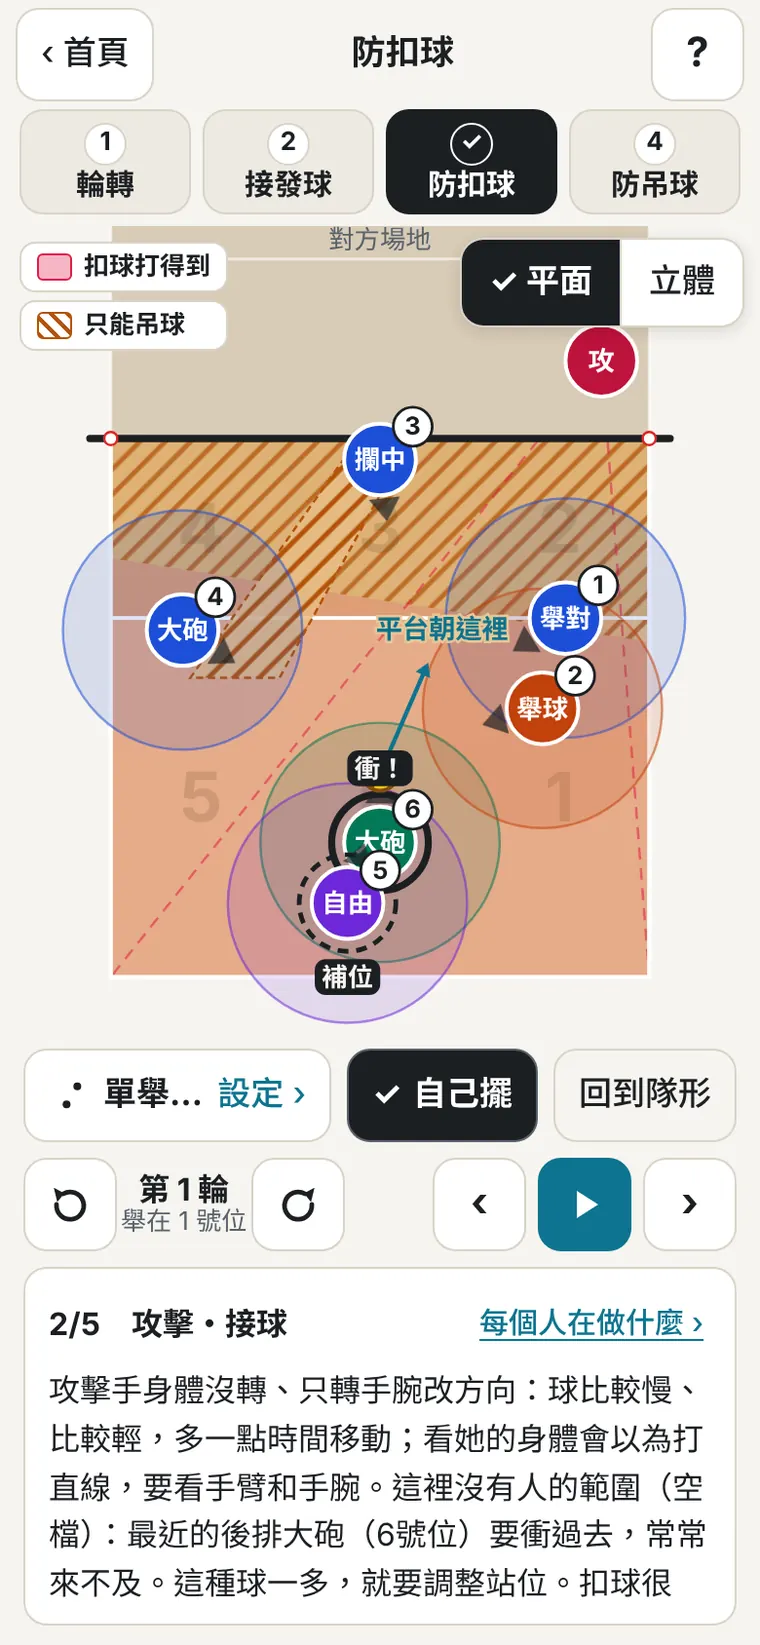
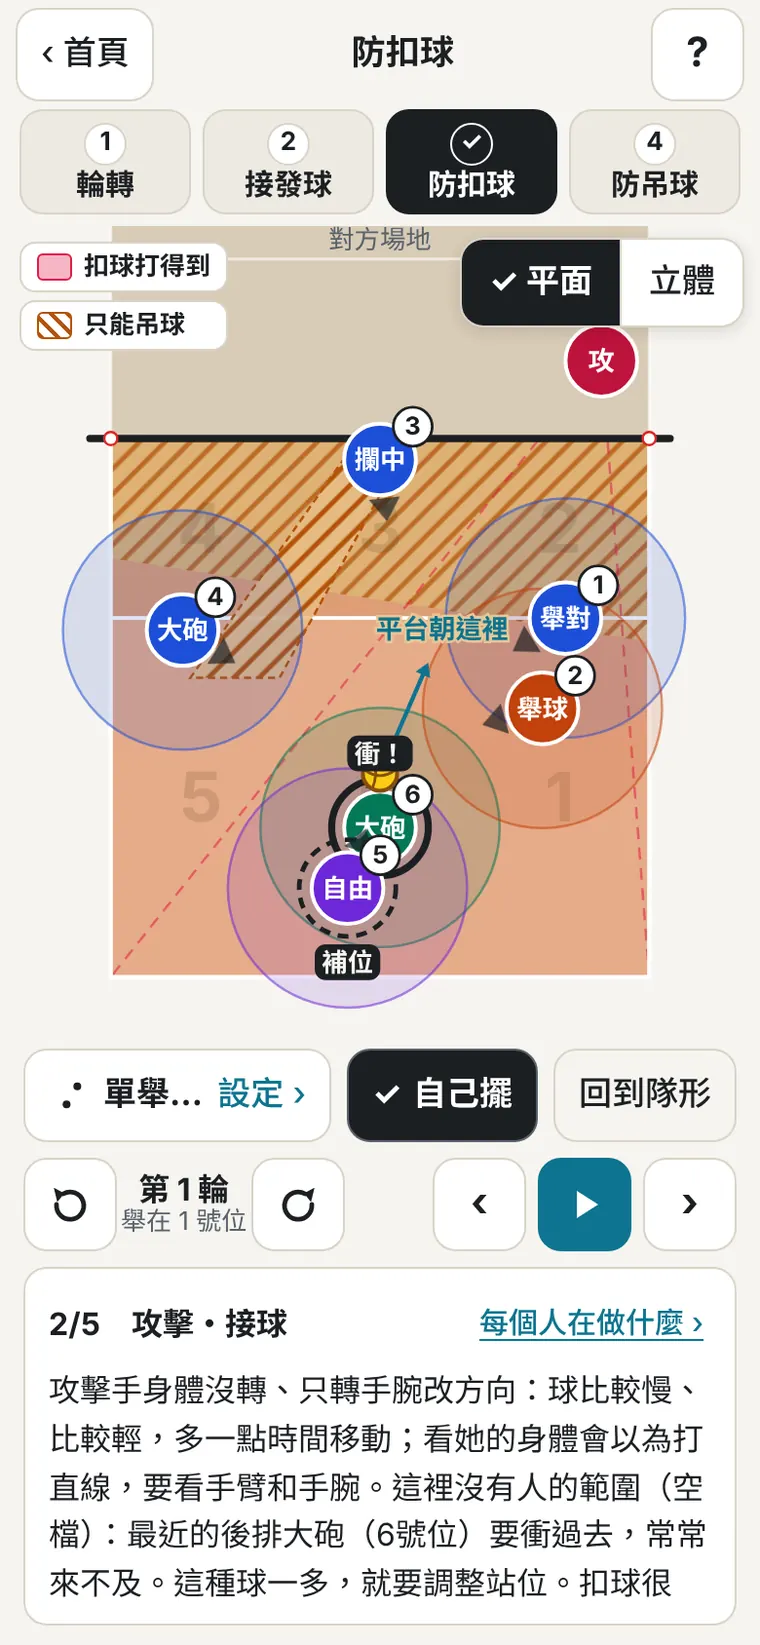
排球站位教室 v2.5.1：舉球的第一人稱看得到球、舉球手型修正、球不穿過人
- 舉球員第一人稱：球傳過來時抬頭看球，站起來、雙手舉到額頭前上方接球再舉出去
- 第一人稱只畫前臂和手，只有接球、舉球的人才伸手（不會有大柱子擋畫面）
- 舉球、攔網準備的手改用兩段手臂直接放到位置，手肘往外（之前手肘往奇怪方向彎）
- 碰手的小球先往上彈，越過攔網的人頭頂，不再穿過身體；舉球點改在額頭上方
- 跨步、撲救時手伸得到球
- 新增 tools/pose-test.html 檢查每個姿勢

Claude-Session: https://claude.ai/code/session_01Q8m2fzsawgKx5UKmuuzCmE

Changed region(s): [[0.3026, 0.403, 0.6658, 0.6201], [0.3026, 0.5581, 0.3329, 0.5891], [0.2724, 0.5271, 0.3026, 0.5581]]

diff --git a/js/app.js b/js/app.js
@@ -4,7 +4,7 @@
 (() => {
 'use strict';
 
-const APP_VERSION = '2.5.0';
+const APP_VERSION = '2.5.1';
 const BUILD_DATE = '2026-11-16';
 const VERSION_TEXT = `v${APP_VERSION}（${BUILD_DATE}）`;
 const COPY = '© 2026 Ken Chen';
@@ -516,7 +516,7 @@ function buildSteps(L, type, comp, dec, att){
   if (kind === 'front') P1[d] = clampCourt([L[0] + away[0]*.45, L[1] + away[1]*.45]);   // 站在球的後面一點，球在身體前面接
   else {
     // 跨步或撲：人停在球旁邊，手伸過去接（不是整個人跑到球後面）
-    const v = unit([L[0] - P0[d][0], L[1] - P0[d][1]]), reach = kind === 'lunge' ? .75 : 1.15;
+    const v = unit([L[0] - P0[d][0], L[1] - P0[d][1]]), reach = kind === 'lunge' ? .6 : .9;
     const dd = dist(P0[d], L);
     P1[d] = dd > reach ? clampCourt([L[0] - v[0] * reach, L[1] - v[1] * reach]) : P0[d].slice();
   }
@@ -569,7 +569,7 @@ function buildSteps(L, type, comp, dec, att){
   else faceMap[d] = L;
   if (soft) rules1.push('攔網碰到的球：設定裡可以改成「攔死」或「沒攔到」。');
   steps.push({ key:'dig', title: soft ? '碰手・接小球' : (type === 'tip' ? '吊球・接球' : '攻擊・接球'), pos:P1, faceMap,
-    ball: soft ? { from:hand, to:soft.bp, dur:330, arc:.08, z:[2.75, 2.5, 0], then:{ to:L, dur:950, arc:.55, z:[2.5, .55, 3.0] } }
+    ball: soft ? { from:hand, to:soft.bp, dur:330, arc:.08, z:[2.75, 2.5, 0], then:{ to:L, dur:1000, arc:.6, z:[2.5, .55, 3.7] } }
       : type === 'tip' ? { from:hand, to:L, dur:900, arc:.7, z:[2.6, .55, 3.1] } : (curHit === 'wrist' ? { from:hand, to:L, dur:650, arc:.16, z:[2.75, .7, 0], slow:true } : { from:hand, to:L, dur:480, arc:.1, z:[2.75, .65, 0], slow:true }),
     cap:cap1, rule:rules1.filter(Boolean).join(' '), marks:{ dig:d, digKind:kind, platform:[L, TG], backup, fillers, gap: dec.rule === 'gap' },
     notes:allNotes(r => r === d ? `接球：${tech}` : r === backup ? '補位：跟到接球的人後面，球接飛了可以救'
@@ -596,7 +596,7 @@ function buildSteps(L, type, comp, dec, att){
   } else cap2 = `${short(d)}把球接高，往舉球員會跑到的地方送（網前、2 號位偏中間）。不管在哪個位置接，都往這裡接。舉球員跑到球下面準備舉。`;
   cap2 += '前排攻擊手退到起跑點' + (comp.blockers.length ? '，攔網的人落地轉身退開' : '') + '。';
   const passDur = clamp(900 + Math.max(0, dist(P1[setterRole], TG) - 3) * 140, 900, 1400);
-  steps.push({ key:'pass', title: d === 'S' ? '修正：送給輔舉' : '送到舉球位置', pos:P2, moveDur:passDur - 100, ball:{ from:L, to:TG, dur:passDur, arc:1.1, z:[.65, 2.4, 4.6] }, cap:cap2, face:TG,
+  steps.push({ key:'pass', title: d === 'S' ? '修正：送給輔舉' : '送到舉球位置', pos:P2, moveDur:passDur - 100, ball:{ from:L, to:TG, dur:passDur, arc:1.1, z:[.65, 2.15, 4.6] }, cap:cap2, face:TG,
     rule: d === 'S' ? '依據：隊上的做法，舉球員接第一球時由舉對（輔舉）舉第二球；修正球離網稍微開一點（教練）。' : '依據：隊上的做法，防起來的球一律往舉球員跑到的終點接（教練）。',
     marks:{ set:setterRole, target: d === 'S' ? 'fix' : 'rt' },
     notes:allNotes(r => r === setterRole ? (d === 'S' ? '跑上來修正，準備舉第二球' : '跑到網前的舉球位置，準備舉球') : attackers.includes(r) ? '退到起跑點，準備助跑' : r === d ? '接完球往中間靠，準備保護' : '回到後排，準備保護') });
@@ -612,7 +612,7 @@ function buildSteps(L, type, comp, dec, att){
   assignSpots(close, sp.close, P2, P3); assignSpots(deep, sp.deep, P2, P3);
   const over = [H[0] < 4.5 ? H[0] + 2.6 : H[0] - 2.6, -2.8];
   const toSide = hitter === 'OH1' ? '4 號位' : (hitter === 'OPP' ? '2 號位' : '中間');
-  steps.push({ key:'set', title:'舉球・保護', pos:P3, face:H, ball:{ from:TG, to:H, dur:900, arc:1.0, z:[2.4, 2.95, 4.8], then:{ to:over, dur:300, arc:.1, z:[2.95, .05, 0] } },
+  steps.push({ key:'set', title:'舉球・保護', pos:P3, face:H, ball:{ from:TG, to:H, dur:900, arc:1.0, z:[2.15, 2.95, 4.8], then:{ to:over, dur:300, arc:.1, z:[2.95, .05, 0] } },
     cap:`${short(setterRole)}站在球下面，把球舉高到${toSide}給${short(hitter)}攻擊，舉完就近保護。離攻擊手最近的三個人（${close.map(short).join('、')}）蹲低靠近保護，${deep.length ? `${deep.map(short).join('、')}站後面一點` : '其他人站後面一點'}：球被攔回來才接得到。`,
     rule:'依據：離攻擊手最近的人近距離保護，最遠的人守後面（教練慣例）。',
     marks:{ hit:hitter, set:setterRole, target: d === 'S' ? 'fix' : 'rt' }, hitter,
@@ -765,7 +765,7 @@ function buildRecvSteps(L, rc, dec){
   for (const r of attackers) P2[r] = APPROACH[spot[r]].slice();
   for (const r of ROLES) if (!lu[r].front && r !== 'S' && r !== d) P2[r] = (READY[lu[r].zone] || P2[r]).slice();
   if (!lu[d].front && d !== 'S') P2[d] = lerp(P1[d], READY[lu[d].zone] || P1[d], .5);
-  steps.push({ key:'pass', title:'傳到舉球員', pos:P2, ball:{ from:L, to:rt(), dur:950, arc:1.0, z:[.7, 2.4, 4.4] }, marks:{ set:'S', target:'rt' }, face:rt(), off:[],
+  steps.push({ key:'pass', title:'傳到舉球員', pos:P2, ball:{ from:L, to:rt(), dur:950, arc:1.0, z:[.7, 2.15, 4.4] }, marks:{ set:'S', target:'rt' }, face:rt(), off:[],
     cap:`${short(d)}用雙手前臂把球傳到網前、中間偏右的目標區（離網 1 公尺左右），舉球員在那裡舉。不用傳得很貼網：離網一點，比較不會直接過網。前排攻擊手接完球，馬上退到起跑點。`,
     rule:'依據：很多教練把傳球目標放在離網 1～1.5 公尺、中間偏右（Gold Medal Squared）。',
     notes:allNotes(r => r === 'S' ? '在目標區等球，準備舉' : attackers.includes(r) ? '退到起跑點，準備助跑' : r === d ? '接完球往前靠，準備保護' : '準備保護攻擊手') });
@@ -783,7 +783,7 @@ function buildRecvSteps(L, rc, dec){
   const over = [H[0] < 4.5 ? H[0] + 2.6 : H[0] - 2.6, -2.8];
   const toSide = spot[hitter] === 'OPP' ? '2 號位' : (spot[hitter] === 'MB' ? '中間' : '4 號位');
   steps.push({ key:'set', title:'舉球・保護', pos:P3, face:H, off:[], hitter,
-    ball:{ from:rt(), to:H, dur:950, arc:1.0, z:[2.4, 2.95, 4.8], then:{ to:over, dur:320, arc:.1, z:[2.95, .05, 0] } },
+    ball:{ from:rt(), to:H, dur:950, arc:1.0, z:[2.15, 2.95, 4.8], then:{ to:over, dur:320, arc:.1, z:[2.95, .05, 0] } },
     cap:`舉球員站在球下面，把球舉高到${toSide}給${short(hitter)}攻擊，舉完就近保護。離攻擊手最近的三個人（${close.map(short).join('、')}）蹲低靠近保護，其他人站後面一點。` +
       (rc.swap ? `第一波打完，${short(rc.swap[0])}和${short(rc.swap[1])}再交換位置。` : ''),
     rule:'依據：離攻擊手最近的人近距離保護，最遠的人守後面（教練慣例）。', marks:{ hit:hitter, set:'S', target:'rt' },
@@ -1614,18 +1614,21 @@ function camRoleNow(){
 function camera3(now, role, dt, st){
   if (!role){ v3.cam = null; return S.step === 'rot' ? { eye:[4.5, 17.2, 5.6], target:[4.5, 3.2, .3], fov:50 } : { eye:[4.5, 15.2, 4.4], target:[4.5, .6, .8], fov:52 }; }
   const p = posNow(role, now) || play.comp.pos[role];
-  const eye = [p[0], p[1], 1.3 + jumpZ('us:' + role, now)];   // 蹲低準備，眼睛大概 1.3 公尺高
-  const key = st ? st.key : 'idle';
+  const key = st ? st.key : 'idle', mk = (st && st.marks) || {};
+  const setting = (mk.set === role && (key === 'pass' || key === 'set'));
+  // 蹲低準備時眼睛大概 1.3 公尺高；舉球時站起來，眼睛 1.55 公尺
+  const eye = [p[0], p[1], (setting ? 1.55 : 1.3) + jumpZ('us:' + role, now)];
   let tg;
   if (!st || key === 'read' || key === 'stand') tg = S.step === 'recv' ? [S.serveX, SERVER_Y, 2.4] : [S.attacker.x, S.attacker.y, 2.6];
   else if (ball3.show) tg = [ball3.x, ball3.y, ball3.z];
   else tg = [4.5, -4, 1.4];
   const dx = tg[0] - eye[0], dy = tg[1] - eye[1], dz = tg[2] - eye[2], hd = Math.hypot(dx, dy);
-  let yaw = Math.atan2(dx, -dy), pitch = clamp(Math.atan2(dz, Math.max(hd, .4)), -.72, .7);
+  // 舉球時球會到頭上：可以抬頭看到快 75 度
+  let yaw = Math.atan2(dx, -dy), pitch = clamp(Math.atan2(dz, Math.max(hd, setting ? .25 : .4)), -.72, setting ? 1.3 : .7);
   if (hd < .7 && v3.cam) yaw = v3.cam.yaw;
   if (!v3.cam) v3.cam = { yaw, pitch };
   let d = yaw - v3.cam.yaw; while (d > Math.PI) d -= 2 * Math.PI; while (d < -Math.PI) d += 2 * Math.PI;
-  const kf = 1 - Math.exp(-dt * 3), mx = 1.4 * dt;
+  const kf = 1 - Math.exp(-dt * (setting ? 5 : 3)), mx = (setting ? 2.4 : 1.4) * dt;
   v3.cam.yaw += clamp(d * kf, -mx, mx);
   v3.cam.pitch += clamp((pitch - v3.cam.pitch) * kf, -mx, mx);
   const cy = v3.cam.yaw, cp = v3.cam.pitch;
@@ -1721,11 +1724,15 @@ function frame3(now){
   for (const o of oppPeople(now, st)) people.push(o);
   const mk = st && st.marks && st.marks.target;
   const ball = ball3.show ? { x:ball3.x, y:ball3.y, z:ball3.z, spin:now / 150 } : null;
-  const near = role && ball && Math.hypot(ball.x - (posNow(role, now) || comp.pos[role])[0], ball.y - (posNow(role, now) || comp.pos[role])[1]) < 1.6 && ball.z < 2;
+  const mk2 = (st && st.marks) || {}, rp = role ? (posNow(role, now) || comp.pos[role]) : null;
+  const bd = role && ball ? Math.hypot(ball.x - rp[0], ball.y - rp[1]) : 99;
+  // 只有這一球接球的人才伸手接；舉球的人在球快到時雙手舉到額頭
+  const setNow = role && ball && mk2.set === role && (st.key === 'pass' || (st.key === 'set' && now - play.t0 < 260 * speedK())) && bd < 2.2 && ball.z > 1.3;
+  const near = role && ball && mk2.dig === role && bd < 1.6 && ball.z < 2;
   const scene = { camera:camera3(now, role, dt, st), people: v3.gl ? people : people.filter(p => !p.hidden), ball,
     dark:darkMQ.matches, zones:zones3(), target: mk ? (mk === 'fix' ? FIX_T : rt()) : null,
     hud:(role ? `第一人稱：${ROLE_INFO[role].name}的眼睛` : '看台視角') + '・慢動作',
-    arms: role ? { on:true, pose: near ? 'platform' : 'ready', at: near ? [ball.x, ball.y, ball.z] : null, color:v3.colors[groupOf(role, lu)] } : null };
+    arms: role && (near || setNow) ? { on:true, pose: setNow ? 'set' : (near ? 'platform' : 'ready'), at: (near || (setNow && bd < 1.2)) ? [ball.x, ball.y, ball.z] : null, color:v3.colors[groupOf(role, lu)] } : null };
   v3.r.render(scene);
 }
 function makeRenderer(){

diff --git a/js/gl3d.js b/js/gl3d.js
@@ -113,9 +113,9 @@ const POSES = {
   ready:     { lean:26, hip:[40,40], knee:[64,64], sh:[36,36],   abd:[12,12],  el:[30,30],  wide:.36, stag:.12 },
   defense:   { lean:34, hip:[52,52], knee:[84,84], sh:[52,52],   abd:[26,26],  el:[34,34],  wide:.42, stag:.08 },
   dig:       { lean:30, hip:[50,50], knee:[80,80], sh:[64,64],   abd:[-19,-19], el:[0,0],   wide:.40, stag:.14 },
-  set:       { lean:4,  hip:[16,16], knee:[26,26], sh:[150,150], abd:[16,16],  el:[96,96],  wide:.28, stag:.12 },
+  set:       { lean:2,  hip:[14,14], knee:[24,24], sh:[150,150], abd:[30,30],  el:[30,30],  wide:.30, stag:.14, ik:'set' },
   block:     { lean:0,  hip:[10,10], knee:[22,22], sh:[172,172], abd:[6,6],    el:[4,4],    wide:.24, stag:0 },
-  blockReady:{ lean:4,  hip:[16,16], knee:[30,30], sh:[118,118], abd:[18,18],  el:[72,72],  wide:.30, stag:0 },
+  blockReady:{ lean:4,  hip:[16,16], knee:[30,30], sh:[110,110], abd:[22,22],  el:[30,30],  wide:.30, stag:0, ik:'blockReady' },
   spike:     { lean:-6, hip:[16,30], knee:[30,52], sh:[150,168], abd:[20,26],  el:[40,-105], wide:.22, stag:0 },
   serve:     { lean:6,  hip:[8,8],   knee:[14,14], sh:[160,120], abd:[16,30],  el:[10,-95], wide:.28, stag:-.22 },
   // 跨步壓低接球：右腳跨出去、膝蓋接近地板，雙手平台伸向球（左腳在前時整個左右對調）
@@ -126,6 +126,20 @@ const POSES = {
   shuffle:   { lean:28, hip:[46,46], knee:[74,74], sh:[42,42],   abd:[14,14],  el:[30,30],  wide:.52, stag:.06 },
 };
 // 跑步：放開手擺臂（不抱著手跑）；amp 是快慢，慢跑擺幅小
+// 兩段手臂（上臂 .29、前臂 .27）：肩膀到目標，手肘往外、往下彎
+function armIK(S0, T, sd){
+  const a = .29, c = .27;
+  let v = [T[0] - S0[0], T[1] - S0[1], T[2] - S0[2]];
+  let d = Math.hypot(v[0], v[1], v[2]) || 1e-3;
+  const u = [v[0] / d, v[1] / d, v[2] / d];
+  d = Math.min(a + c - .002, Math.max(Math.abs(a - c) + .02, d));
+  let p = [sd, 0, -.5]; const pr = p[0] * u[0] + p[1] * u[1] + p[2] * u[2];
+  p = [p[0] - u[0] * pr, p[1] - u[1] * pr, p[2] - u[2] * pr];
+  const pl = Math.hypot(p[0], p[1], p[2]) || 1; p = [p[0] / pl, p[1] / pl, p[2] / pl];
+  const ca = (a * a + d * d - c * c) / (2 * a * d), sa = Math.sqrt(Math.max(0, 1 - ca * ca));
+  const elb = [S0[0] + u[0] * a * ca + p[0] * a * sa, S0[1] + u[1] * a * ca + p[1] * a * sa, S0[2] + u[2] * a * ca + p[2] * a * sa];
+  return [elb, [S0[0] + u[0] * d, S0[1] + u[1] * d, S0[2] + u[2] * d]];
+}
 function runPose(ph, amp){
   const a = amp == null ? 1 : amp, s = Math.sin(ph) * a, c = Math.cos(ph);
   return { lean:10 + 10 * a, hip:[32 * s + 10, -32 * s + 10], knee:[30 + 40 * a * Math.max(0, -c), 30 + 40 * a * Math.max(0, c)],
@@ -259,6 +273,9 @@ function create(canvas, overlay){
     const fast = ['dig','lunge','dive','block','spike'].includes(p.pose) ? 12 : (p.pose === 'run' || p.pose === 'shuffle' ? 16 : 6);
     const a = 1 - Math.exp(-dt * fast);
     easePose(s.pose, tgt, a);
+    // 舉球、攔網準備：手直接放到額頭前上方／肩膀前上方（用兩段手臂去接，手肘自然往外），慢慢切換
+    if (tgt.ik) s.ikKind = tgt.ik;
+    s.ikW = (s.ikW || 0) + ((tgt.ik ? 1 : 0) - (s.ikW || 0)) * a;
     let dy = (p.yaw || 0) - s.yaw; while (dy > Math.PI) dy -= 2 * Math.PI; while (dy < -Math.PI) dy += 2 * Math.PI;
     s.yaw += dy * (1 - Math.exp(-dt * 6));
     return s;
@@ -313,34 +330,54 @@ function create(canvas, overlay){
       const up = [sd * Math.sin(ab), Math.sin(th) * Math.cos(ab), -Math.cos(th) * Math.cos(ab)];
       let b = [0, 1, .6]; const pr = dot(b, up); b = norm(sub(b, mul(up, pr)));
       const fore = norm(add(mul(up, Math.cos(el)), mul(b, Math.sin(el))));
-      const elb = add(shl, mul(up, .29)), wr = add(elb, mul(fore, .27));
+      let elb = add(shl, mul(up, .29)), wr = add(elb, mul(fore, .27));
+      if (s.ikW > .01 && s.ikKind){
+        const head = add(add(add(pel, mul(spine, .58)), [0, .02, .1]), [0, 0, 0]);
+        const T = s.ikKind === 'set' ? add(head, [sd * .1, .2, .2]) : add(shl, [sd * .05, .16, .32]);
+        const ik = armIK(shl, T, sd);
+        elb = add(elb, mul(sub(ik[0], elb), s.ikW)); wr = add(wr, mul(sub(ik[1], wr), s.ikW));
+      }
       const S0 = pt(shl), E0 = pt(elb), W0 = pt(wr);
       sphere(S0, .062, col);
       limb(S0, add(S0, mul(sub(E0, S0), .45)), .058, col);
       limb(S0, E0, .042, SKIN);
       sphere(E0, .041, SKIN);
       limb(E0, W0, .036, SKIN);
-      sphere(add(W0, mul(fore, .04)), .044, SKIN);
+      sphere(add(W0, mul(norm(sub(W0, E0)), .04)), .044, SKIN);
     }
     return add(headC, [0, 0, .2]);
   }
   // 第一人稱：自己的兩隻手（雙手前臂合起來，球接進手裡）
+  // 第一人稱的手：只畫前臂和手（上臂、肩膀太靠近眼睛，畫出來會變成擋住畫面的大柱子）
   function drawArms(a){
-    const e = cam.eye, f = cam.f, r = cam.r, u = cam.u;
-    let hand = add(add(e, mul(f, .62)), mul(u, -.4));
-    if (a.at){
-      // 球快到的時候，雙手迎到球的下面
-      const d = sub(a.at, e), L = Math.hypot(d[0], d[1], d[2]) || 1, kk = Math.max(.45, Math.min(.85, L)) / L;
-      hand = add(add(e, mul(d, kk)), mul(u, -.1));
+    const e = cam.eye, r = cam.r, Zu = [0, 0, 1];
+    const fh = norm([cam.f[0], cam.f[1], 0]);              // 水平的前方
+    const fore = (elb, h) => { limb(elb, h, .032, SKIN); };
+    if (a.pose === 'set'){
+      // 舉球：雙手在額頭前上方張開成三角形，手肘往外、往下；球來了手迎到球下面
+      let c = add(add(e, mul(Zu, .3)), mul(fh, .26));
+      if (a.at){ const b = a.at; c = [b[0] - fh[0] * .04, b[1] - fh[1] * .04, b[2] - .12]; }
+      for (const sd of [-1, 1]){
+        const h = add(c, mul(r, sd * .085));
+        const elb = add(add(add(h, mul(Zu, -.26)), mul(r, sd * .17)), mul(fh, -.06));
+        fore(elb, h);
+        ellip(h, mul(r, .035), mul(fh, .03), mul(Zu, .055), SKIN);
+      }
+      return;
     }
+    let hand = add(add(e, mul(fh, .6)), mul(Zu, -.6));
+    if (a.at){
+      // 接球：雙手併攏成平台，迎到球的下面
+      const d = sub(a.at, e), L = Math.hypot(d[0], d[1], d[2]) || 1, kk = Math.max(.5, Math.min(.85, L)) / L;
+      hand = add(add(e, mul(d, kk)), mul(Zu, -.08));
+    }
+    // 前臂從手往身體方向（往後、往下、稍微往外）
+    const toBody = norm(sub(add(e, mul(Zu, -.45)), hand));
     for (const sd of [-1, 1]){
-      const sh0 = add(add(add(e, mul(r, sd * .3)), mul(u, -.72)), mul(f, .06));
-      const h = add(hand, mul(r, sd * .03));
-      const elb = add(add(add(sh0, mul(sub(h, sh0), .52)), mul(r, sd * .04)), mul(u, .02));
-      limb(sh0, add(sh0, mul(sub(elb, sh0), .55)), .052, hex(a.color || '#6d28d9'));
-      limb(sh0, elb, .036, SKIN);
-      limb(elb, h, .03, SKIN);
-      ellip(h, mul(r, .03), mul(f, .05), mul(u, .022), SKIN);
+      const h = add(hand, mul(r, sd * .035));
+      const elb = add(add(h, mul(toBody, .27)), mul(r, sd * .07));
+      fore(elb, h);
+      ellip(h, mul(r, .03), mul(fh, .05), mul(Zu, .022), SKIN);
     }
   }
   /* ---------- 畫一張 ---------- */

diff --git a/tools/pose-test.html b/tools/pose-test.html
@@ -1,0 +1,16 @@
+<!DOCTYPE html>
+<html lang="zh-Hant"><head><meta charset="utf-8"><title>姿勢檢查</title>
+<style>body{margin:0;background:#ccc} canvas{display:block}</style></head>
+<body><canvas id="c" width="1200" height="520" style="width:1200px;height:520px"></canvas><canvas id="o" width="1200" height="520" style="position:absolute;left:0;top:0;width:1200px;height:520px"></canvas>
+<script src="../js/gl3d.js"></script>
+<script>
+// 開發用：把每個姿勢排一排，從側面看，檢查手肘、膝蓋有沒有往奇怪的方向彎
+const poses = (new URLSearchParams(location.search).get('p') || 'ready,defense,dig,lunge,dive,shuffle,set,blockReady,block,spike').split(',');
+const yawDeg = +(new URLSearchParams(location.search).get('yaw') || 90);
+const r = VBGL.create(document.getElementById('c'), document.getElementById('o'));
+r.resize();
+const people = poses.map((p, i) => ({ id:'p' + i, x:i * 1.3, y:0, z:0, h:1.7, yaw:yawDeg * Math.PI / 180, pose:p, phase:1, color:'#2563eb', label:p, foot:1 }));
+const cx = (poses.length - 1) * 1.3 / 2;
+function frame(){ r.render({ camera:{ eye:[cx, 9, 1.2], target:[cx, 0, .9], fov:42 }, people, ball:null, dark:false, zones:null, target:null, hud:'', arms:null }); }
+let n = 0; (function loop(){ frame(); if (++n < 90) requestAnimationFrame(loop); else window.done = true; })();
+</script></body></html>

diff --git a/sw.js b/sw.js
@@ -1,6 +1,6 @@
 /* 排球站位教室：離線快取。先問網站有沒有新版（最多等 3 秒），連不上或回錯誤就用存好的版本。 */
 const PREFIX = 'vbdef-';
-const VERSION = '2.5.0';
+const VERSION = '2.5.1';
 const CACHE = PREFIX + VERSION;
 const ASSETS = [
   './', 'index.html', 'css/app.css', 'js/rotation.js', 'js/render3d.js', 'js/gl3d.js', 'js/diagrams.js', 'js/app.js', 'manifest.webmanifest',

diff --git a/README.md b/README.md
@@ -40,7 +40,7 @@
 
 ## 退回舊版
 
-每次改版前都會先把目前的 `main` 另存成備份分支（例如 `backup-v1.1.0`、`backup-v2.0.0`、`backup-v2.1.0`、`backup-v2.2.0`、`backup-v2.3.0`、`backup-v2.4.0`）。新版有問題時：
+每次改版前都會先把目前的 `main` 另存成備份分支（例如 `backup-v1.1.0`、`backup-v2.0.0`、`backup-v2.1.0`、`backup-v2.2.0`、`backup-v2.3.0`、`backup-v2.4.0`、`backup-v2.5.0`）。新版有問題時：
 
 1. 在 GitHub 打開備份分支，把檔案放回 `main`（或在電腦上 `git checkout backup-v1.1.0 -- .` 再推上去）。
 2. 把 `sw.js` 的 `VERSION` 改成一個新的號碼（例如 `1.1.1`），手機才會丟掉有問題的快取。
@@ -70,6 +70,7 @@
 - `tools/make-icons.py`：產生 App 圖示和分享預覽圖。
 - `tools/make-help-shots.py`：產生使用說明的截圖。
 - `tools/check-layout.py`：在手機、平板、筆電、桌電等尺寸量有沒有超出畫面、按鈕被蓋住、按鈕太小、字太小。
+- `tools/pose-test.html`：把立體畫面的每個姿勢排成一排（網址加 `?yaw=180` 看正面），檢查手肘、膝蓋有沒有往奇怪的方向彎。
 
 ## 根據與參考資料
 
